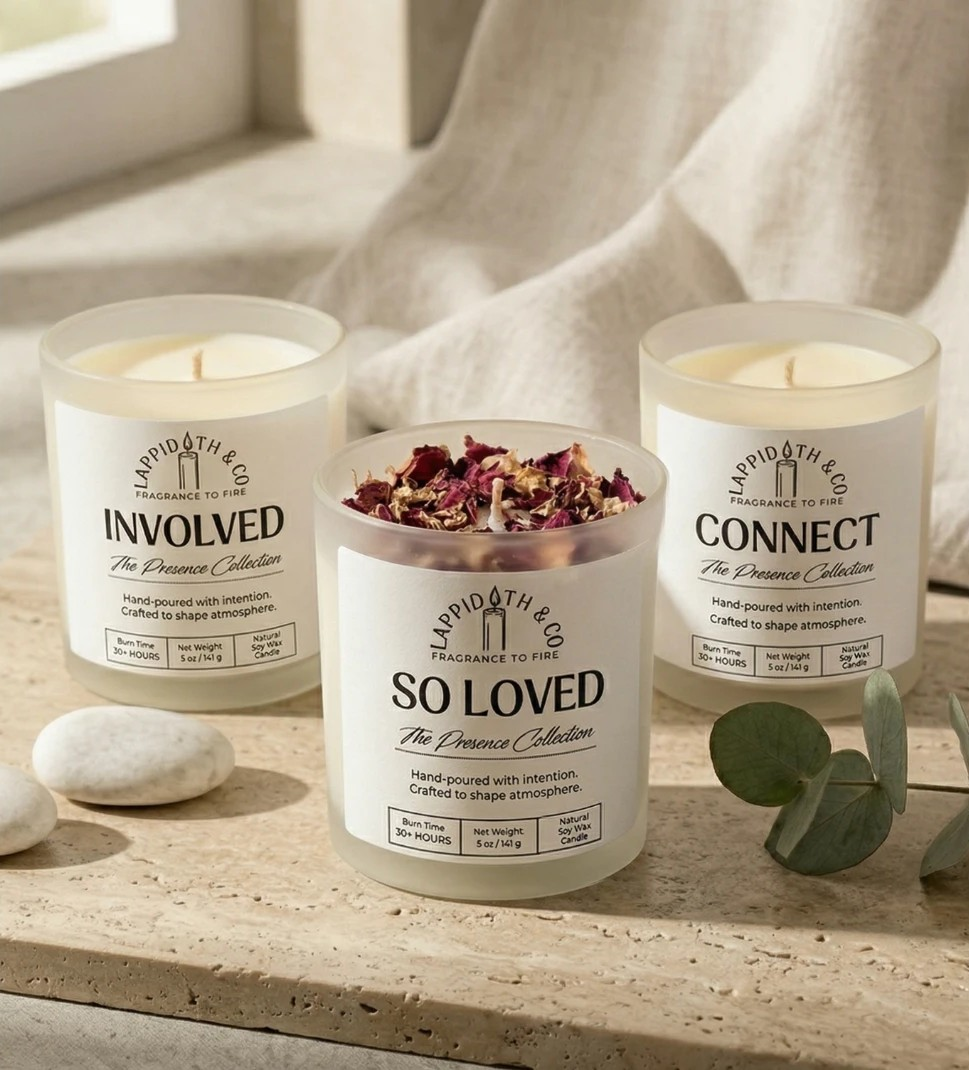
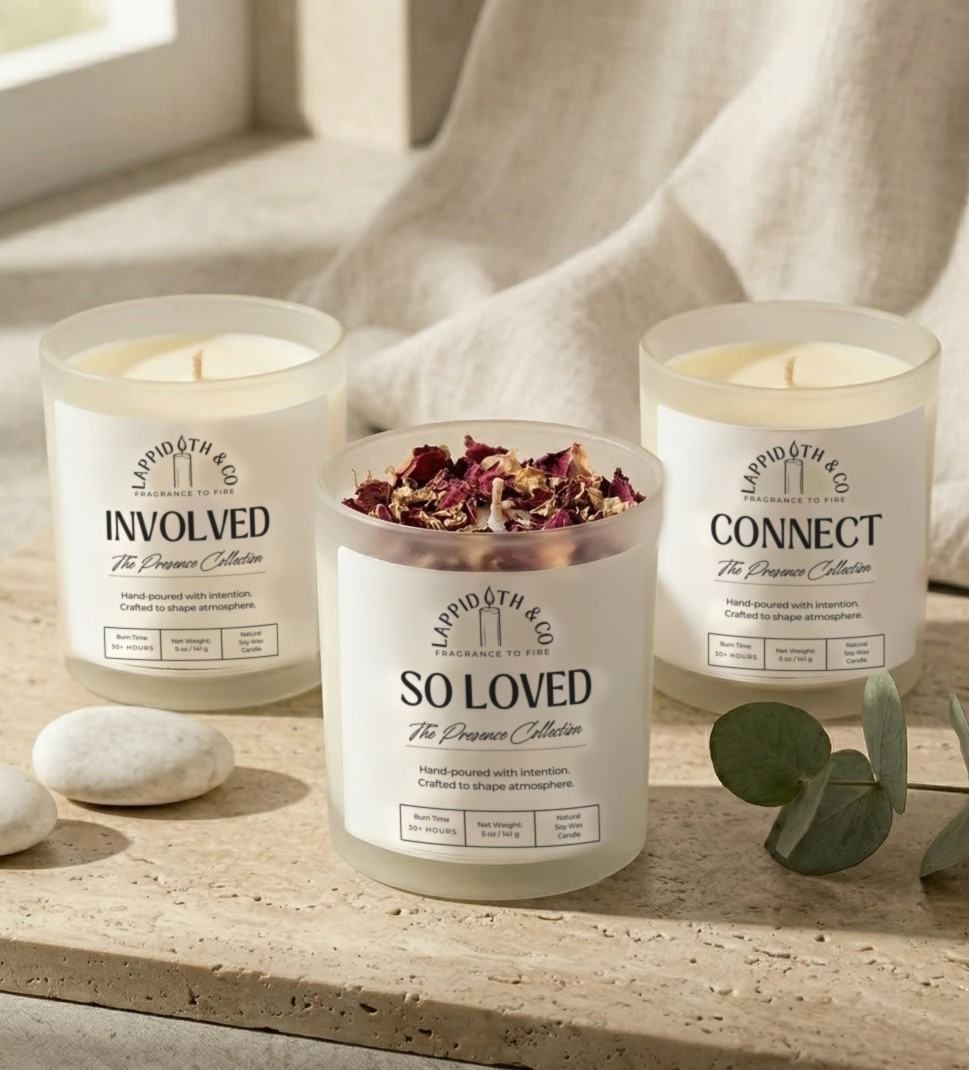
Show final labels on jar photos; free delivery over £70; checkout fixes
- Replace the printed artwork in the product and hero photos with the
  final label (old ink removed, new label wrapped to each jar's curve,
  original paper, lighting and grain kept)
- Free UK delivery threshold raised to £70
- Stripe client uses fetch, which works on any host and honours proxies
- A checkout that fails to start no longer leaves an orphaned pending
  order; order numbers follow the last issued number

Claude-Session: https://claude.ai/code/session_01CsbKAs4FKkWouGuLKh57DB

diff --git a/src/lib/orders.ts b/src/lib/orders.ts
@@ -12,8 +12,9 @@ import { getStripe, siteUrl } from "./stripe";
 import type { PricedLine } from "./basket";
 
 async function nextOrderNumber() {
-  const count = await db.order.count();
-  return `LC-${1001 + count}`;
+  const last = await db.order.findFirst({ orderBy: { createdAt: "desc" }, select: { number: true } });
+  const n = last ? parseInt(last.number.replace(/\D/g, ""), 10) : 1000;
+  return `LC-${(Number.isFinite(n) ? n : 1000) + 1}`;
 }
 
 export async function createCheckout(
@@ -46,44 +47,51 @@ export async function createCheckout(
   const publicImages = base.startsWith("https://");
   const freeShipping = priced.subtotalCents >= SHOP.freeShippingThresholdCents;
 
-  const session = await stripe.checkout.sessions.create({
-    mode: "payment",
-    currency: SHOP.currency.toLowerCase(),
-    client_reference_id: order.id,
-    metadata: { orderId: order.id, orderNumber: order.number },
-    payment_intent_data: { metadata: { orderId: order.id, orderNumber: order.number } },
-    line_items: priced.lines.map((l) => ({
-      quantity: l.quantity,
-      price_data: {
-        currency: SHOP.currency.toLowerCase(),
-        unit_amount: l.unitPriceCents,
-        product_data: {
-          name: l.name,
-          ...(l.options ? { description: l.options } : {}),
-          ...(publicImages ? { images: [`${base}${l.image}`] } : {}),
-        },
-      },
-    })),
-    shipping_address_collection: { allowed_countries: [...SHOP.shipToCountries] },
-    shipping_options: SHOP.shippingOptions.map((opt, i) => {
-      const amount = i === 0 && freeShipping ? 0 : opt.amountCents;
-      return {
-        shipping_rate_data: {
-          type: "fixed_amount" as const,
-          display_name: amount === 0 ? `${opt.name} — complimentary` : opt.name,
-          fixed_amount: { amount, currency: SHOP.currency.toLowerCase() },
-          delivery_estimate: {
-            minimum: { unit: "business_day" as const, value: opt.minDays },
-            maximum: { unit: "business_day" as const, value: opt.maxDays },
+  let session;
+  try {
+    session = await stripe.checkout.sessions.create({
+      mode: "payment",
+      currency: SHOP.currency.toLowerCase(),
+      client_reference_id: order.id,
+      metadata: { orderId: order.id, orderNumber: order.number },
+      payment_intent_data: { metadata: { orderId: order.id, orderNumber: order.number } },
+      line_items: priced.lines.map((l) => ({
+        quantity: l.quantity,
+        price_data: {
+          currency: SHOP.currency.toLowerCase(),
+          unit_amount: l.unitPriceCents,
+          product_data: {
+            name: l.name,
+            ...(l.options ? { description: l.options } : {}),
+            ...(publicImages ? { images: [`${base}${l.image}`] } : {}),
           },
         },
-      };
-    }),
-    phone_number_collection: { enabled: true },
-    allow_promotion_codes: true,
-    success_url: `${base}/checkout/success?session_id={CHECKOUT_SESSION_ID}`,
-    cancel_url: `${base}/basket`,
-  });
+      })),
+      shipping_address_collection: { allowed_countries: [...SHOP.shipToCountries] },
+      shipping_options: SHOP.shippingOptions.map((opt, i) => {
+        const amount = i === 0 && freeShipping ? 0 : opt.amountCents;
+        return {
+          shipping_rate_data: {
+            type: "fixed_amount" as const,
+            display_name: amount === 0 ? `${opt.name} — complimentary` : opt.name,
+            fixed_amount: { amount, currency: SHOP.currency.toLowerCase() },
+            delivery_estimate: {
+              minimum: { unit: "business_day" as const, value: opt.minDays },
+              maximum: { unit: "business_day" as const, value: opt.maxDays },
+            },
+          },
+        };
+      }),
+      phone_number_collection: { enabled: true },
+      allow_promotion_codes: true,
+      success_url: `${base}/checkout/success?session_id={CHECKOUT_SESSION_ID}`,
+      cancel_url: `${base}/basket`,
+    });
+  } catch (err) {
+    // Don't leave an orphaned "awaiting payment" order behind
+    await db.order.delete({ where: { id: order.id } }).catch(() => {});
+    throw err;
+  }
 
   await db.order.update({ where: { id: order.id }, data: { checkoutRef: session.id } });
   return session.url;

diff --git a/src/lib/shop-config.ts b/src/lib/shop-config.ts
@@ -7,7 +7,7 @@ export const SHOP = {
   locale: "en-GB",
   // UK only for now. Add ISO country codes (e.g. "IE", "FR", "US") to ship abroad.
   shipToCountries: ["GB"] as const,
-  freeShippingThresholdCents: 5000, // free standard delivery over £50
+  freeShippingThresholdCents: 7000, // free standard delivery over £70
   shippingOptions: [
     { id: "standard", name: "Standard UK delivery (2–4 working days)", amountCents: 499, minDays: 2, maxDays: 4 },
     { id: "express", name: "Express UK delivery (1–2 working days)", amountCents: 599, minDays: 1, maxDays: 2 },

diff --git a/src/lib/stripe.ts b/src/lib/stripe.ts
@@ -6,7 +6,11 @@ let client: Stripe | null = null;
 export function getStripe(): Stripe | null {
   const key = process.env.STRIPE_SECRET_KEY;
   if (!key) return null;
-  client ??= new Stripe(key, { appInfo: { name: "Lappidoth & Co." } });
+  client ??= new Stripe(key, {
+    appInfo: { name: "Lappidoth & Co." },
+    // Standard fetch works on every host (Vercel, Node, edge) and honours proxy settings.
+    httpClient: Stripe.createFetchHttpClient(),
+  });
   return client;
 }
 

diff --git a/README.md b/README.md
@@ -36,7 +36,7 @@ npm run dev
    `checkout.session.async_payment_succeeded` and `checkout.session.expired`.
 
 Prices always come from the database. The browser only sends product slugs and quantities.
-Delivery (standard £4.99, express £5.99, free over £50) is set in `src/lib/shop-config.ts`.
+Delivery (standard £4.99, express £5.99, free over £70) is set in `src/lib/shop-config.ts`.
 
 ## Project layout
 
